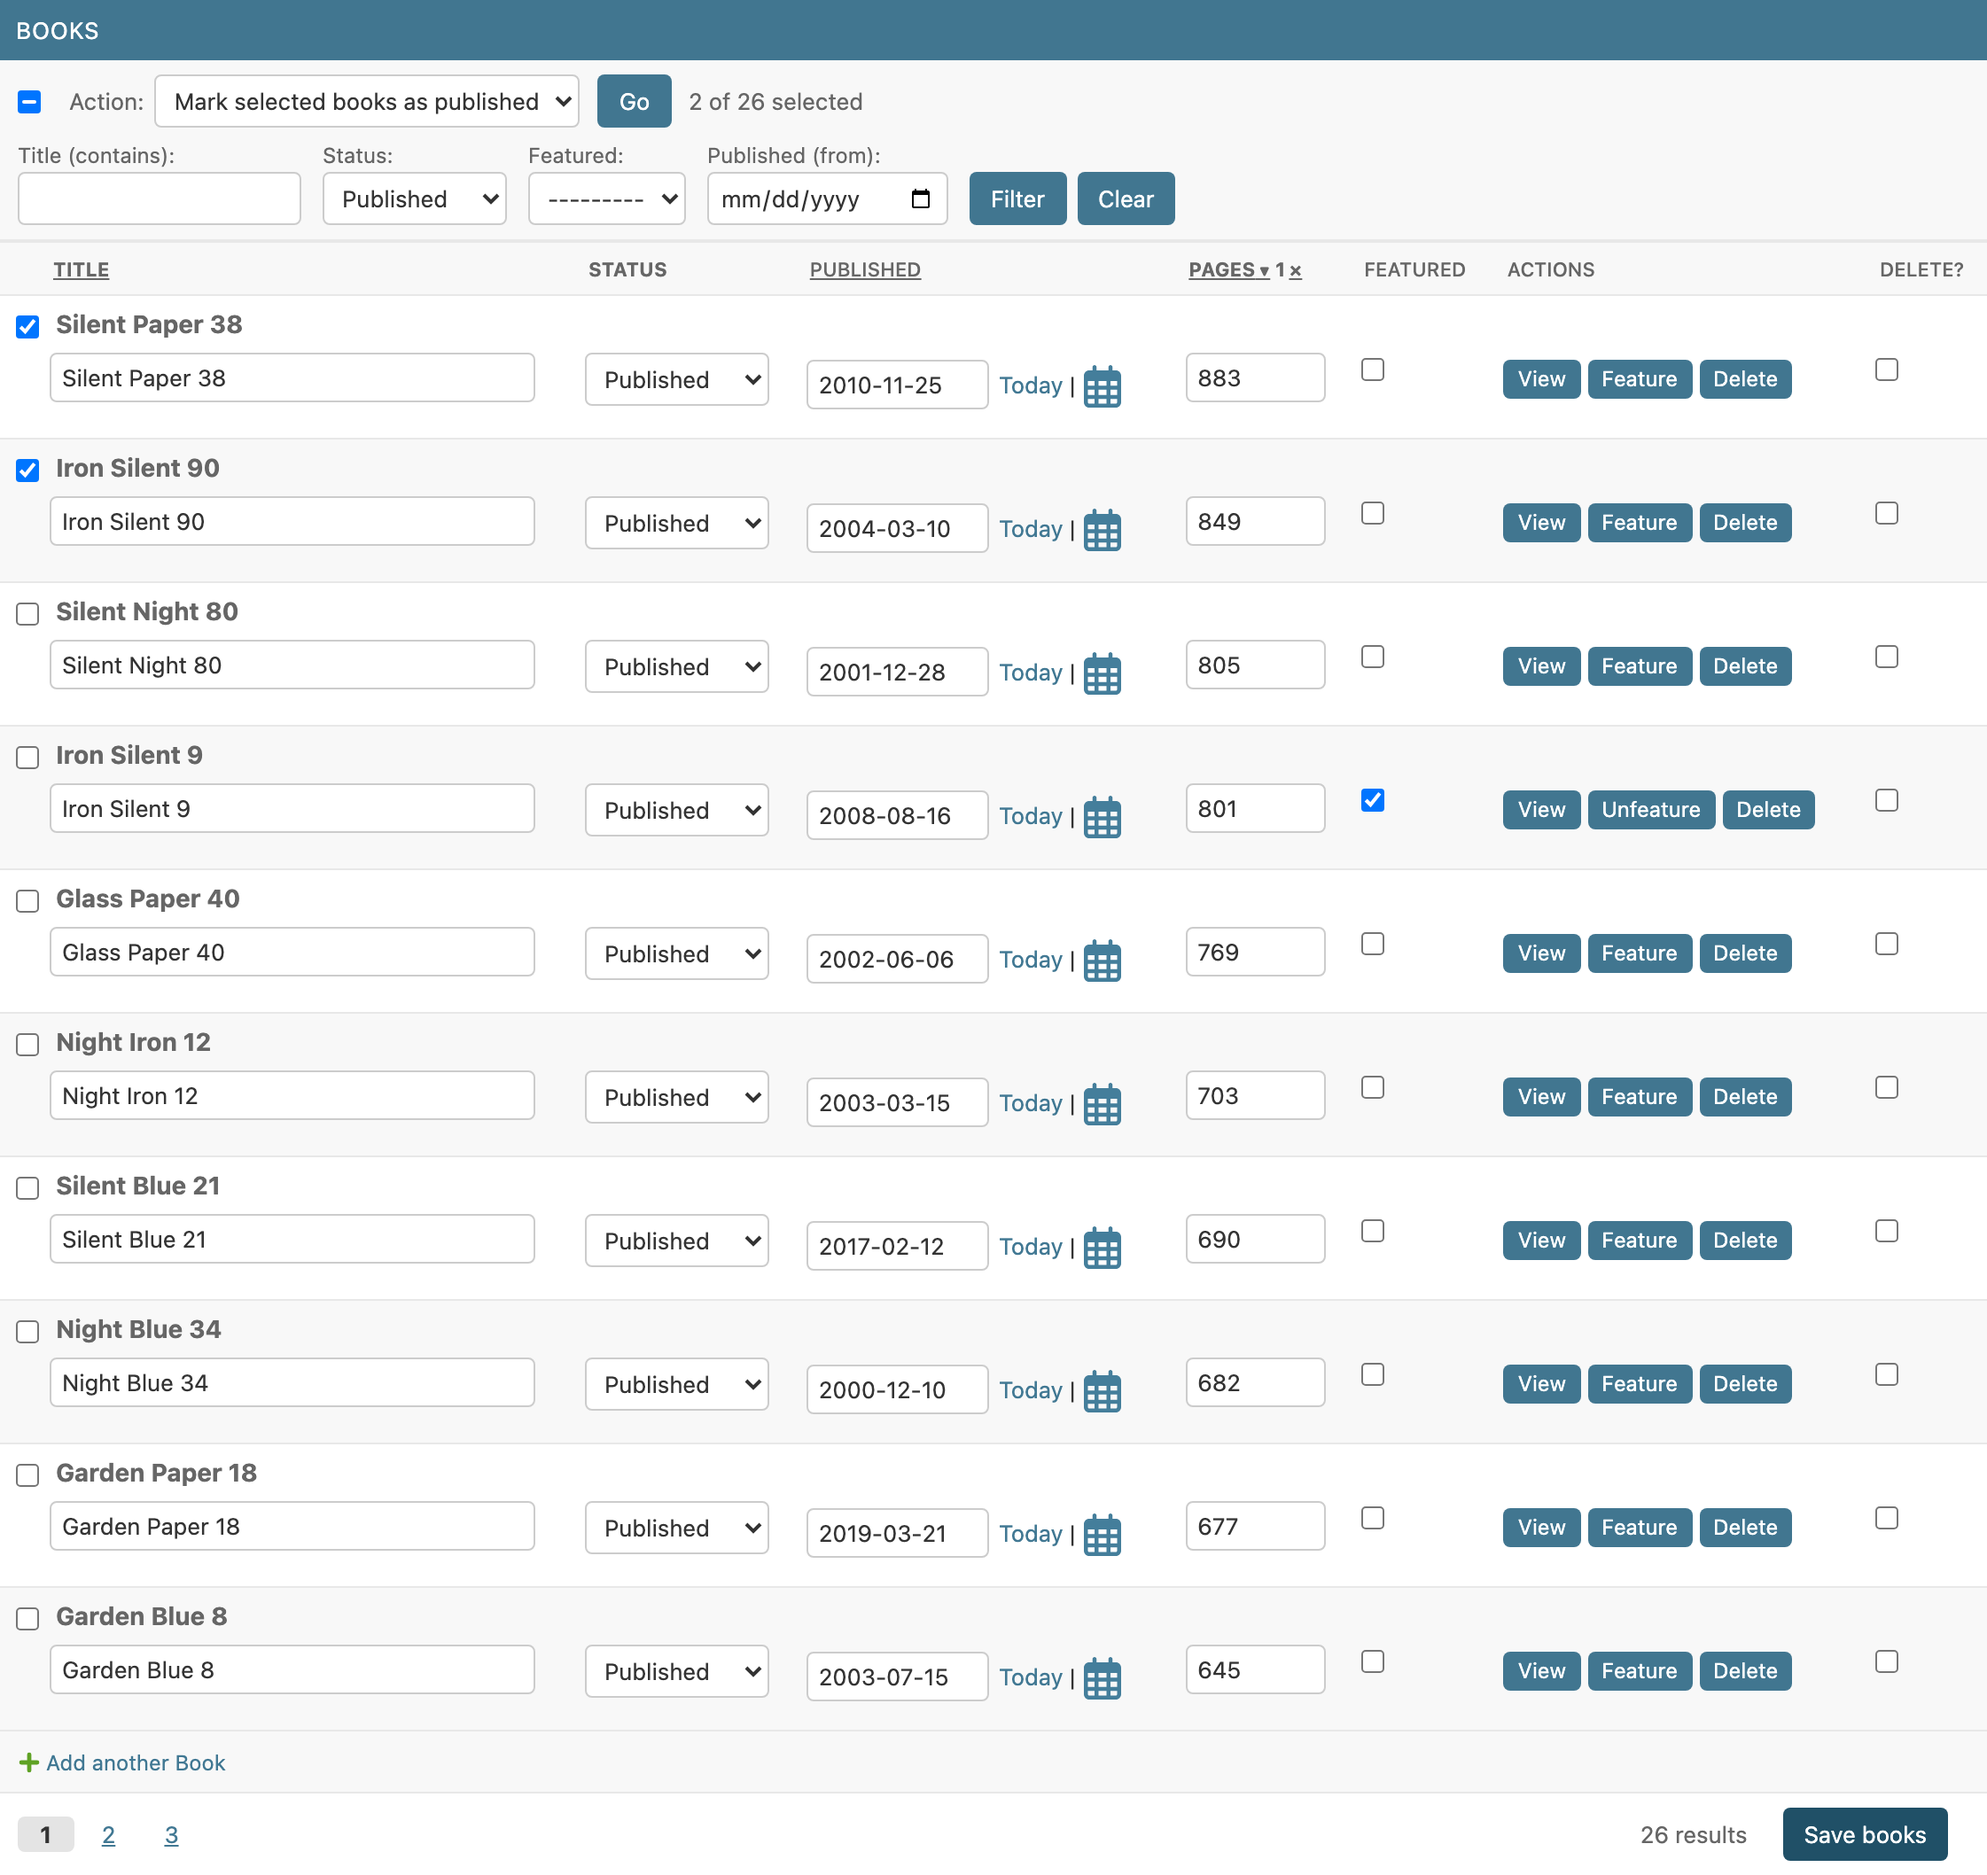
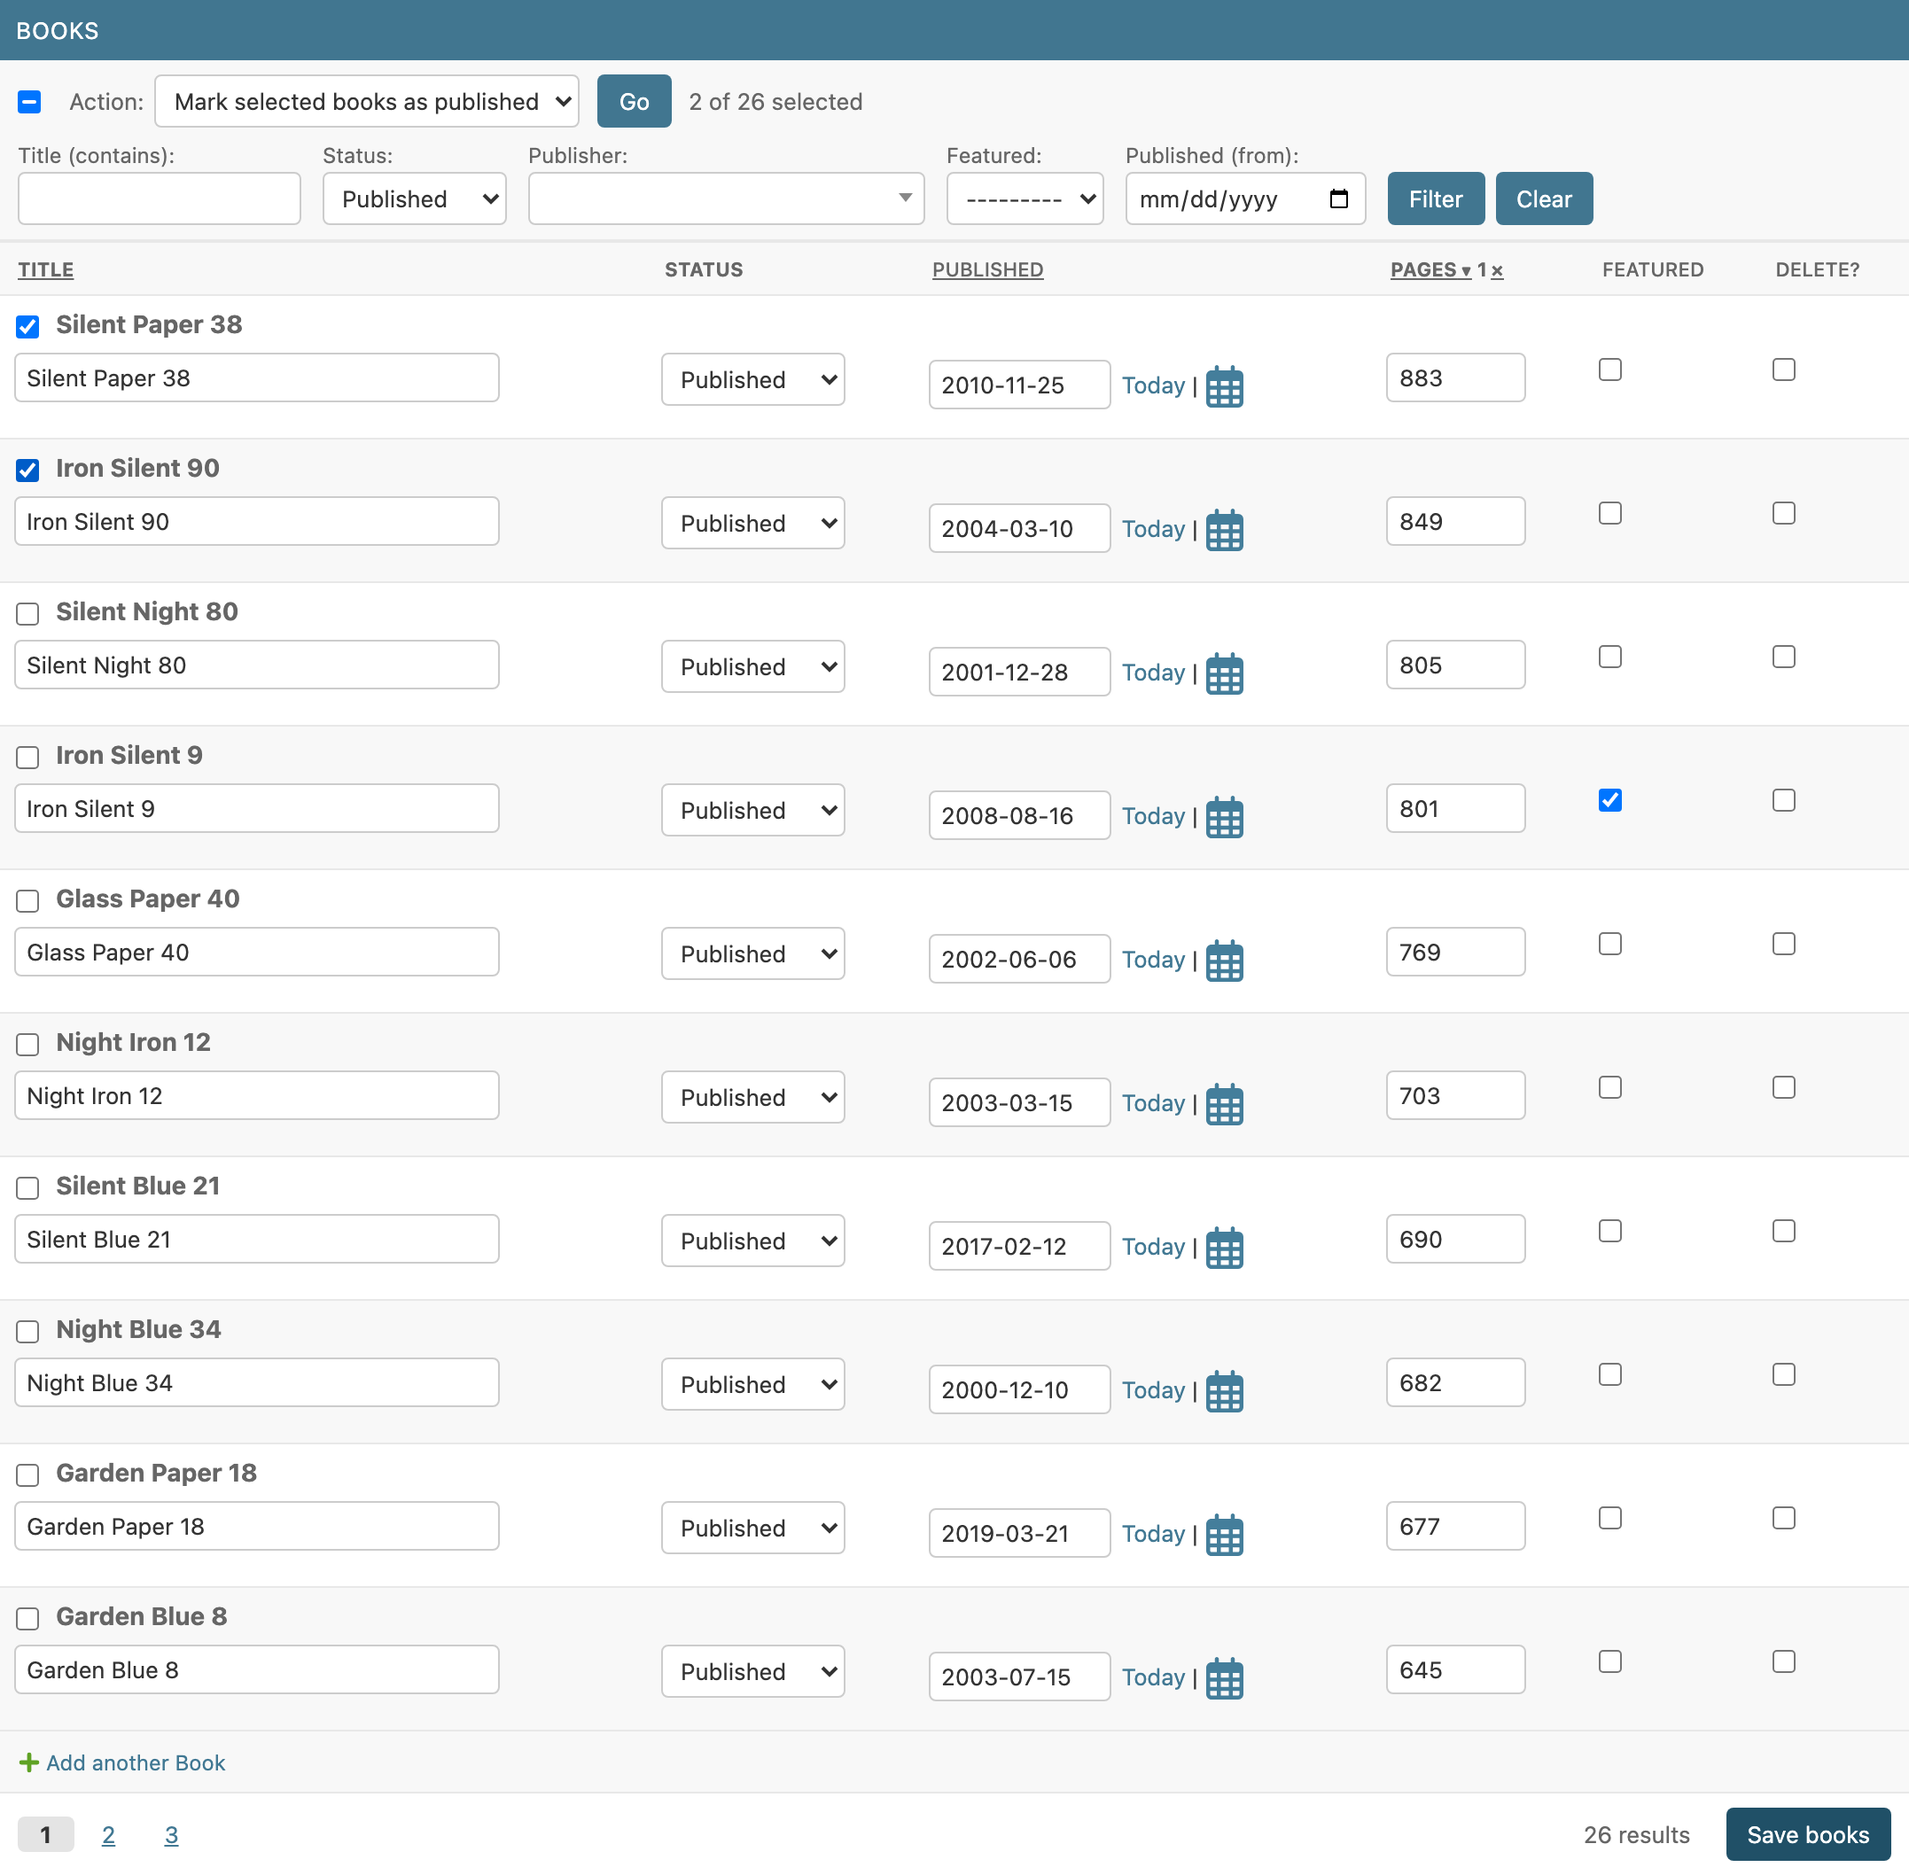
chore: update changelog and README for row actions migration to django-admin-tables

diff --git a/src/django_admin_inline_controls/controls.py b/src/django_admin_inline_controls/controls.py
@@ -410,10 +410,7 @@ class InlineControls:
 
     @property
     def has_footer(self) -> bool:
-        return (
-            self.paginator is not None
-            or self.save_url is not None
-        )
+        return self.paginator is not None or self.save_url is not None
 
     # URLs and config -------------------------------------------------------
 

diff --git a/README.md b/README.md
@@ -9,7 +9,7 @@
 Pagination, filtering and sortable columns for Django admin inlines —
 without leaving the change form.
 
-![A tabular inline with an action menu and two selected rows, filters, sorting by pages, View/Feature/Delete buttons on each row, page links and the Save books button](docs/screenshots/hero.png)
+![A tabular inline with an action menu and two selected rows, filters, sorting by pages, page links and the Save books button](docs/screenshots/hero.png)
 
 - **Pagination**: page links, or infinite scroll that appends rows as you
   reach the end of the inline.
@@ -25,9 +25,10 @@ without leaving the change form.
   submitting (or reloading) the rest of the page.
 - **Actions** on the selected rows, like the changelist's: checkboxes,
   "select all", an action menu and a built-in `delete_selected`.
-- Totals below the columns? Add
+- Totals below the columns, or buttons on each row? Add
   [django-admin-tables](https://github.com/rodolvbg/django-admin-tables)'
-  footer rows: they follow the filters and the paging of these controls.
+  footer rows and row actions: they follow the filters and the paging of
+  these controls.
 - Only depends on Django. No jQuery plugins, no htmx; works with
   `TabularInline` and `StackedInline`.
 
@@ -93,7 +94,6 @@ shareable and several inlines never clash.
 | `inline_controls_ajax` | `True` | Refresh the inline in place instead of reloading the page. |
 | `inline_save_button` | `False` | Show a button that saves only this inline. See [Saving only the inline](#saving-only-the-inline). |
 | `inline_bulk_actions` | `()` | Actions for the selected rows. See [Bulk actions](#bulk-actions). |
-| `inline_actions` | `()` | Buttons on each saved row, as in django-inline-actions. See [Row actions](#row-actions). |
 
 Only columns declared in `inline_ordering_fields` can be sorted: ordering
 by an arbitrary field from the URL would let anyone infer the values of
@@ -331,76 +331,31 @@ inlines (`admin_inline_controls.E103`).
 
 ### Row actions
 
-Buttons on each saved row, in an **Actions** column: no selection, no menu,
-no "Go". The API is [django-inline-actions](https://github.com/escaped/django-inline-actions)'s
-— `inline_actions`, `get_inline_actions(request, obj)`, `ViewAction`,
-`DeleteAction`, `(request, obj, parent_obj=None)` — so its inlines move
-here by changing the imports.
-
-![Row actions: View, Feature/Unfeature and Delete on each row](docs/screenshots/row-actions.png)
+Buttons on each row ("Feature", "Delete"…) are in
+[django-admin-tables](https://github.com/rodolvbg/django-admin-tables#row-actions),
+which recognizes these controls: with its `RowActionsMixin` on the inline
+(and on the parent `ModelAdmin`), an action refreshes only the inline, in
+place, keeping its filters and page.
 
 ```python
-from django_admin_inline_controls.actions import DefaultActionsMixin
+from django_admin_tables import RowActionsMixin, row_action
 
 
-class BookInline(DefaultActionsMixin, InlineControlsMixin, admin.TabularInline):
+class BookInline(InlineControlsMixin, RowActionsMixin, admin.TabularInline):
     model = Book
-    inline_actions = ["toggle_featured"]  # plus View and Delete
+    row_actions = ["view", "feature", "delete"]
 
-    def toggle_featured(self, request, obj, parent_obj=None):
-        obj.featured = not obj.featured
-        obj.save(update_fields=["featured"])
-        self.message_user(request, f"“{obj}” updated.", messages.SUCCESS)
+    @row_action(permissions=["change"], description="Feature")
+    def feature(self, request, obj):
+        ...
 
-    def get_toggle_featured_label(self, obj):
-        return "Unfeature" if obj.featured else "Feature"
+
+@admin.register(Author)
+class AuthorAdmin(InlineControlsAdminMixin, RowActionsMixin, admin.ModelAdmin):
+    inlines = [BookInline]
 ```
 
-- **`inline_actions`** lists method names or callables, and is gathered
-  from every class of the inline (bases first): mixins add theirs.
-  `inline_actions = None` removes the column.
-- **Built-in:** the mixins `ViewAction` (`view_action`: a link to the row's
-  change view, when its model has one on the site and the user may view
-  it), `DeleteAction` (`delete_action`: asks "Delete “Book 01”? This cannot
-  be undone.", deletes it like `delete_selected` and records it in the
-  parent's history; needs the delete permission) and `DefaultActionsMixin`
-  (both). Without a mixin, list `"view"` / `"delete"`.
-- **Your own**, as methods or callables, in either form:
-  - `action(self, request, obj, parent_obj=None)` for one row;
-  - `action(self, request, queryset)`, like a [bulk action](#bulk-actions)
-    (`@inline_action`, `permissions`, `confirmation`…), run on a queryset
-    with only that row: the same function can be in both lists.
-- **Per row:** the label, CSS classes and HTML attributes come from the
-  function's `short_description`, `css_classes` and `attribute_properties`
-  (a dict, escaped, or a string), or from `get_<action>_label(obj)`,
-  `get_<action>_css(obj)` and `get_<action>_attr(obj)` on the inline.
-  Override `get_inline_actions(request, obj)` to offer some actions on
-  some rows only (`obj` is the row; the parent is
-  `request.inline_controls_parent`), as `DeleteAction` does.
-- They return what bulk actions do: `None` re-renders the inline with the
-  messages from `self.message_user()` (shown in its footer), a file is
-  downloaded, a redirect is followed.
-- The buttons are rendered by the server, in a read-only column added to
-  the inline's fields (`render_inline_actions`, as in django-inline-actions;
-  put it in your `fields` or `fieldsets` to place it yourself), and shown
-  once the JS is ready. Its template is `inline_actions_template`
-  (`django_admin_inline_controls/row_actions.html`).
-
-**Coming from django-inline-actions:** change
-`inline_actions.admin.InlineActionsMixin` for `InlineControlsMixin`,
-`inline_actions.actions` for `django_admin_inline_controls.actions`, and put
-`InlineControlsAdminMixin` on the parent `ModelAdmin` instead of
-`InlineActionsModelAdminMixin`. The actions run without submitting the
-whole change form (unsaved changes elsewhere on the page are kept), only
-the inline is refreshed, and each action's `permissions` are checked by the
-server before it runs. Buttons on the changelist's rows aren't covered:
-keep `InlineActionsModelAdminMixin` for those, next to
-`InlineControlsAdminMixin` (they don't clash on a `ModelAdmin`).
-
-**Requirements:** as for bulk actions, `InlineControlsAdminMixin` on the
-parent `ModelAdmin` (`admin_inline_controls.E019`); not available on
-nested_admin inlines (`admin_inline_controls.E105`). They only appear in
-the change view, once the parent exists.
+(Until 0.1.1 this package had its own `inline_actions`.)
 
 ### Footer rows
 
@@ -468,7 +423,7 @@ class BookInline(NestedInlineControlsMixin, nested_admin.NestedTabularInline):
 
 nested_admin keeps its own client-side formset state, so with it filters,
 sorting and page links reload the page instead of swapping the inline, and
-infinite scroll, the save-inline button and bulk and row actions are not
+infinite scroll, the save-inline button and bulk actions are not
 available.
 
 ### Themes
@@ -561,11 +516,6 @@ you replace a block's markup (`{{ block.super }}` keeps the original).
 | `result_count` | "25 results". |
 | `infinite`, `infinite_count`, `load_more`, `load_more_label` | Infinite mode: "Showing 15 of 70" and "Load more". |
 | `save`, `save_status`, `save_button`, `save_label` | The save-inline button and its status. |
-| `row_actions_status` | Where the row actions' messages appear. |
-
-**`row_actions.html`** (one row's buttons): `row_actions`, `row_action`
-(once per action, with `action`: `name`, `label`, `css_classes`, `attrs`,
-`confirmation` and, for `view`, `url`).
 
 **`inline_response.html`** (the save/action endpoints' response):
 `response`, `inlines`. Set `inline_controls_response_template` on the
@@ -647,8 +597,6 @@ Misconfigurations are reported by `manage.py check` (and at startup):
 | `admin_inline_controls.E008` | `inline_save_button = True` but the parent `ModelAdmin` lacks `InlineControlsAdminMixin`. |
 | `admin_inline_controls.E009` | An `inline_bulk_actions` entry is not a method of the inline, a callable or a built-in action. |
 | `admin_inline_controls.E010` | `inline_bulk_actions` is set but the parent `ModelAdmin` lacks `InlineControlsAdminMixin`. |
-| `admin_inline_controls.E018` | An `inline_actions` entry is not a method of the inline, a callable or a built-in row action. |
-| `admin_inline_controls.E019` | `inline_actions` is set but the parent `ModelAdmin` lacks `InlineControlsAdminMixin`. |
 | `admin_inline_controls.E020` | `inline_filter_autocomplete` is not `True`, `False` or a list of lookups. |
 | `admin_inline_controls.E021` | An `inline_filter_autocomplete` lookup isn't a relation whose model has a `ModelAdmin` with `search_fields` on the site. |
 | `admin_inline_controls.E022` | `inline_filter_only_used_values` is not `True`, `False` or a list of lookups. |
@@ -658,14 +606,12 @@ Misconfigurations are reported by `manage.py check` (and at startup):
 | `admin_inline_controls.E102` | `inline_save_button = True` on a nested_admin inline. |
 | `admin_inline_controls.E103` | `inline_bulk_actions` on a nested_admin inline. |
 | `admin_inline_controls.E104` | Unfold's `per_page` on an inline with `UnfoldInlineControlsMixin`. |
-| `admin_inline_controls.E105` | `inline_actions` on a nested_admin inline. |
 
 ## JavaScript files
 
 Each inline loads only the scripts it uses, through its `media`: `core.js`
 (pagination, filters, sorting, placing the controls) always, `save.js`
-with `inline_save_button`, `actions.js` with `inline_bulk_actions` or
-`inline_actions`, and
+with `inline_save_button`, `actions.js` with `inline_bulk_actions`, and
 `contrib/unfold.js` with `UnfoldInlineControlsMixin`. The admin merges the
 media of every inline on the page, so each file loads at most once.
 

diff --git a/CHANGELOG.md b/CHANGELOG.md
@@ -24,6 +24,14 @@ and this project adheres to [Semantic Versioning](https://semver.org/spec/v2.0.0
   now, for inlines and the changelist alike. Its `FooterRowsMixin` follows
   these controls' filters and paging, and comes back with the refreshed
   inline: see the README's "Footer rows".
+- Row actions (`inline_actions`, `get_inline_actions()`,
+  `inline_actions_template`, the `ViewAction`, `DeleteAction` and
+  `DefaultActionsMixin` mixins, `row_actions.html` and checks `E018`,
+  `E019` and `E105`): they're in
+  [django-admin-tables](https://github.com/rodolvbg/django-admin-tables)
+  now, for inlines and the changelist alike. Its `RowActionsMixin`
+  refreshes only these controls' inline, keeping its filters and page: see
+  the README's "Row actions".
 
 ## [0.1.1] - 2026-10-07
 

diff --git a/docs/themes/unfold.md b/docs/themes/unfold.md
@@ -28,7 +28,6 @@ dark mode:
   the inline's own `inline_controls_selectors`) and use its colors;
 - Unfold's "Add another" and delete buttons keep working after the inline
   is refreshed (`js/contrib/unfold.js`).
-- row actions (`inline_actions`) are styled like Unfold's buttons.
 
 Paginate with `inline_per_page`: Unfold's own `per_page` would paginate the
 inline a second time (`admin_inline_controls.E104`). Unfold's `tab` and
@@ -37,8 +36,7 @@ inline a second time (`admin_inline_controls.E104`). Unfold's `tab` and
 
 ## Screenshots
 
-A tabular inline, sorted by a column, with rows selected, the row actions
-(View, Feature, Delete):
+A tabular inline, sorted by a column, with rows selected:
 
 ![Tabular inline with Unfold](unfold/tabular.png)
 
